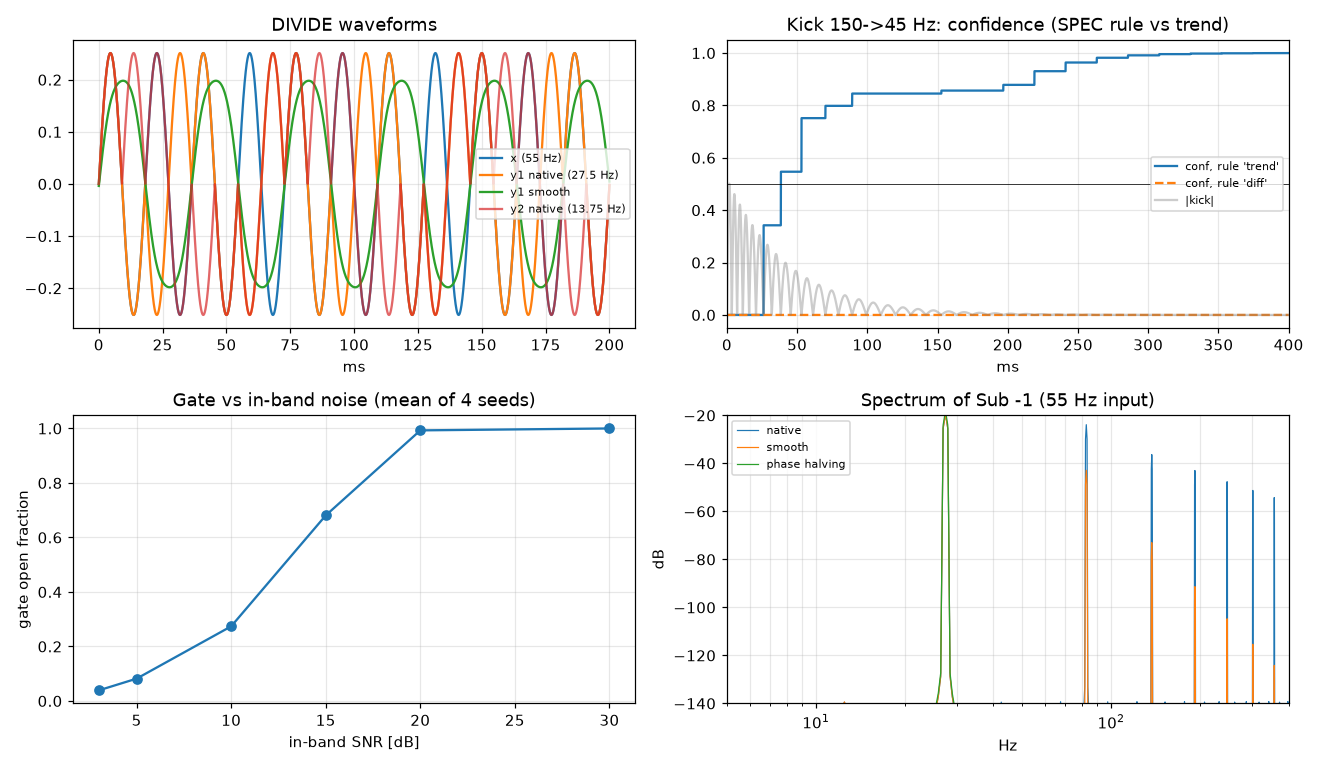
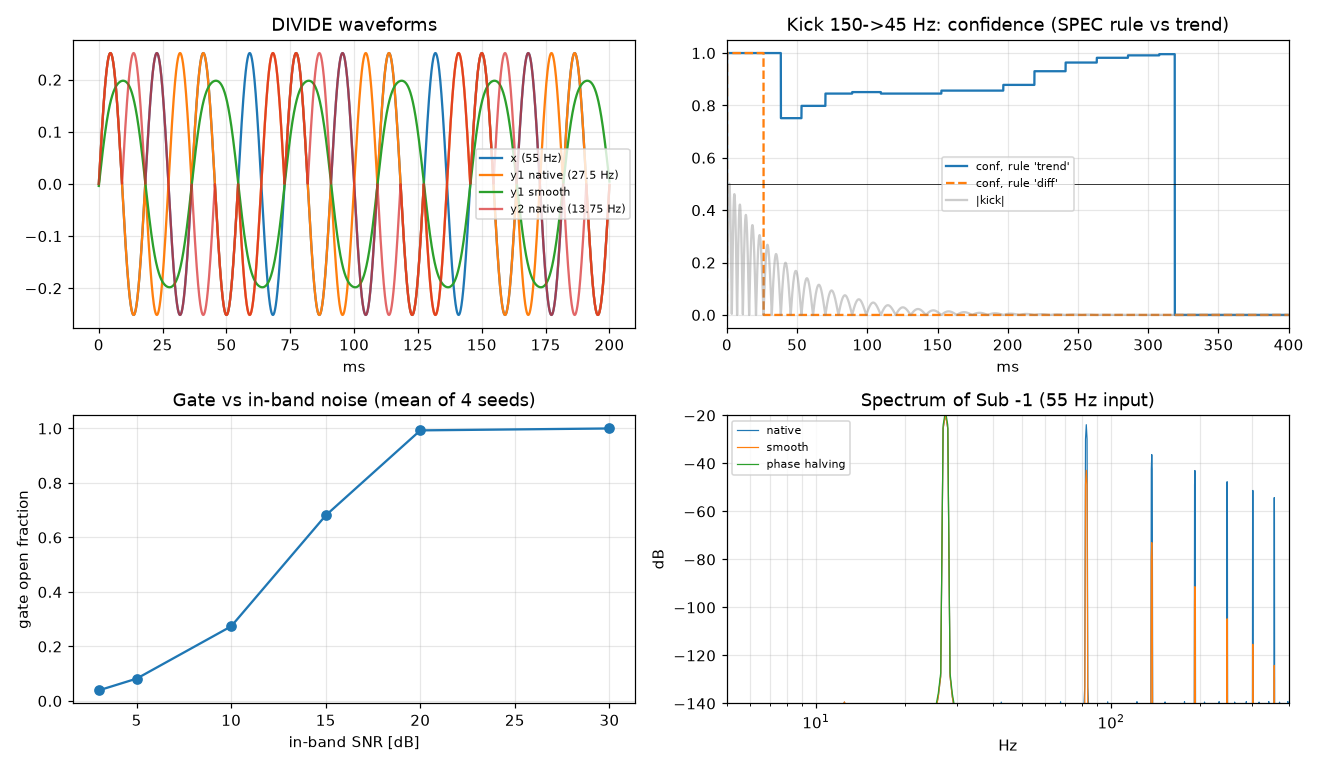
fix(proto): a note's rise begins at its first sound after digital silence; P2-02 measures R1/R2/R5/I1
In digital silence both envelopes are 0 and the strict comparison never counted as quiet, so the Mix/Print start reset and the provisional confidence were placed 45 ms early (no audible effect: the signal was silent). P2-02 now measures the default output: kick onset energy through the gate (Live/Mix/Print 0.94/0.955/0.955 of ungated, was 0.005), polarity of separated hits over noise floors and hum (20/20, correlation 0.9995) and over overlapping tails, the chord level after 100 ms (Live -76 dB), conf_gate edges and shape (f/2 within 0.05 dB).

diff --git a/proto/experiments/p2_02_divide.py b/proto/experiments/p2_02_divide.py
@@ -1,5 +1,8 @@
 # SPDX-License-Identifier: AGPL-3.0-or-later
-"""P2-02: DIVIDE engine - accuracy, purity, continuity, polarity rule, gate behaviour, phase-halving comparison."""
+"""P2-02: DIVIDE engine - accuracy, purity, continuity, polarity rule, gate behaviour, phase-halving comparison.
+
+Re-run after the independent review (D8): note boundaries and polarity resets (R2), provisional confidence and the
+gate lookahead (R1), shape as a cutoff (R5) and conf_gate edges (I1) are measured on the default output."""
 import numpy as np
 import matplotlib
 
@@ -7,7 +10,7 @@ matplotlib.use("Agg")
 import matplotlib.pyplot as plt
 
 from experiments._common import Recorder
-from subgen_proto import divide, signals, svf, util
+from subgen_proto import band, divide, render, signals, svf, util
 
 
 def _inband(f, fs, dur, snr_db, seed):
@@ -18,6 +21,16 @@ def _inband(f, fs, dur, snr_db, seed):
 
 def _db(v):
     return 20.0 * np.log10(max(v, 1e-300))
+
+
+def _first_sign(seg, frac=0.1):
+    j = int(np.argmax(np.abs(seg) > frac * np.max(np.abs(seg))))
+    return np.sign(seg[j])
+
+
+def _floor(fs, n, rms_db, seed=5):
+    nz = signals.pink_noise(fs, n / fs, 30.0, 120.0, level_db=0.0, seed=seed)[:n]
+    return nz * (10.0 ** (rms_db / 20.0) / np.sqrt(np.mean(nz ** 2)))
 
 
 def main():
@@ -80,8 +93,44 @@ def main():
         ok_sign += int(np.sign(ys[j]) == np.sign(xs[j]))
         shapes.append(ys[: int(0.2 * FS)] / pk)
     corr = min(float(np.dot(shapes[0], s) / np.sqrt(np.dot(shapes[0], shapes[0]) * np.dot(s, s))) for s in shapes[1:])
-    rec.check("polarity rule: hits whose first sub lobe matches the source (of 100)", ok_sign, ">=", 100)
-    rec.check("polarity rule: minimum correlation of sub waveform between hits", corr, ">=", 0.99)
+    rec.check("polarity rule: hits whose first sub lobe matches the source (of 100, native y1)", ok_sign, ">=", 100)
+    rec.check("polarity rule: minimum correlation of sub waveform between hits (native y1)", corr, ">=", 0.99)
+
+    # 4b. polarity on the default output (smoothed + gated), separated hits over noise floors and hum, and
+    #     overlapping tails (D8 C2 -> R2). 20 hits each.
+    n20, hum = 20, lambda n: 10.0 ** (-70.0 / 20.0) * np.sin(2.0 * np.pi * 31.0 * np.arange(n) / FS)
+    def hits(spacing=0.5, t60=0.3, extra=None):
+        xx = signals.kick(FS, n_hits=n20, spacing=spacing, level_db=-6.0, t60=t60)
+        return band.range_filter(xx + (extra(len(xx)) if extra else 0.0), FS)
+    variants = {"silence": hits(), "hum 31 Hz -70 dBFS": hits(extra=hum)}
+    variants.update({f"pink {lv:g} dBFS RMS": hits(extra=lambda n, lv=lv: _floor(FS, n, lv)) for lv in (-90, -80, -70, -60)})
+    pol = {}
+    for quality in ("mix", "live"):
+        for label, xb in variants.items():
+            y = render.divide_sub(xb, FS, quality=quality)
+            h = int(0.5 * FS)
+            ok = sum(int(_first_sign(y[i * h:(i + 1) * h]) == _first_sign(xb[i * h:(i + 1) * h])) for i in range(n20))
+            sh = [y[i * h:i * h + int(0.2 * FS)] for i in range(n20)]
+            cmin = min(float(np.dot(sh[0], v) / np.sqrt(np.dot(sh[0], sh[0]) * np.dot(v, v))) for v in sh[1:])
+            pol[f"{quality} | {label}"] = (ok, round(cmin, 4))
+    rec.info("default output, separated hits: (first lobe matches the source, of 20; min correlation)", pol)
+    rec.check("default output, separated hits: worst first-lobe agreement (Mix and Live, 6 variants)",
+              min(v[0] for v in pol.values()), ">=", n20)
+    rec.check("default output, separated hits: worst correlation between hits", min(v[1] for v in pol.values()), ">=", 0.99)
+    tails = {}
+    for spacing in (0.45, 0.5):
+        xb = hits(spacing=spacing, t60=1.0)
+        r = divide.divide(xb, FS)
+        y = render.divide_sub(xb, FS, quality="mix")
+        h = int(spacing * FS)
+        native = sum(int(_first_sign(r.y1[i * h:(i + 1) * h]) == _first_sign(xb[i * h:(i + 1) * h])) for i in range(n20))
+        out_signs = {float(_first_sign(y[i * h:(i + 1) * h])) for i in range(1, n20)}
+        tails[f"T60 1 s every {spacing:g} s"] = {"native y1 matches (of 20)": native, "output signs, hits 1-19": sorted(out_signs)}
+    rec.info("overlapping tails (each hit over the previous one's tail, 13.5 dB down at 0.45 s), Mix", tails)
+    rec.check("overlapping tails: native y1 first lobe matches the source (worst of 2 spacings, of 20)",
+              min(v["native y1 matches (of 20)"] for v in tails.values()), ">=", n20)
+    rec.check("overlapping tails: the output looks alike from hit to hit (distinct first-lobe signs, worst)",
+              max(len(v["output signs, hits 1-19"]) for v in tails.values()), "<=", 1)
 
     # 5. gate behaviour: kick (trend vs SPEC rule), clean-sine opening time
     kick = signals.kick(FS, n_hits=1, spacing=0.5, level_db=-6.0)
@@ -92,14 +141,23 @@ def main():
         first = np.flatnonzero(m)
         gate[mode] = {"open_fraction_50-300ms": round(float(np.mean(m[int(.05 * FS):int(.30 * FS)])), 3),
                       "first_open_ms": round(1000 * first[0] / FS, 1) if first.size else None}
-    rec.info("kick gate (SIG-03)", gate)
+    rec.info("kick gate (SIG-03; conf provisional 1 from the note start)", gate)
     rec.check("kick: gate open fraction 50-300 ms, 'trend' rule", gate["trend"]["open_fraction_50-300ms"], ">=", 0.9)
-    rec.info("kick: SPEC rule ('diff') open fraction 50-300 ms", gate["diff"]["open_fraction_50-300ms"])
+    rec.info("kick: SPEC 0.1 rule ('diff') open fraction 50-300 ms", gate["diff"]["open_fraction_50-300ms"])
+    xb1 = band.range_filter(kick, FS)
+    n40 = int(0.040 * FS)
+    onset = {}
+    for quality, look in (("live", 0.0), ("mix", 0.045), ("print", 0.055)):
+        gated = render.divide_sub(xb1, FS, quality=quality)
+        ungated = divide.smooth_sub(divide.divide(xb1, FS, live=quality == "live", lookahead_s=look), FS, 1)
+        onset[quality] = round(float(np.sum(gated[:n40] ** 2) / np.sum(ungated[:n40] ** 2)), 3)
+    rec.info("kick through the range filter: gated / ungated sub energy in the first 40 ms (D8 C1: was 0.005)", onset)
+    rec.check("kick onset: gated / ungated sub energy in the first 40 ms (worst quality)", min(onset.values()), ">=", 0.5)
     opens = {}
     for f in (30.0, 55.0, 120.0):
-        r = divide.divide(signals.sine(f, FS, 1.0, -12.0), FS)
-        opens[f] = round(1000 * np.flatnonzero(divide.gate_mask(r.conf, 50.0))[0] / FS, 1)
-    rec.info("clean sine: gate opens after (ms) [3 periods = 100.0, 54.5, 25.0]", opens)
+        r = divide.divide(np.concatenate([np.zeros(FS // 5), signals.sine(f, FS, 1.0, -12.0)]), FS)
+        opens[f] = round(1000 * (np.flatnonzero(divide.gate_mask(r.conf, 50.0, r.provisional))[0] - FS // 5) / FS, 1)
+    rec.info("clean sine after silence: gate opens after the note start (ms; provisional, R1)", opens)
 
     # 6. in-band noise sweep, chord and random noise
     sweep = {}
@@ -120,8 +178,28 @@ def main():
     rec.info("random 30-120 Hz noise: open fraction per seed", [round(float(v), 4) for v in fr_pink])
     rec.check("random noise: worst open fraction", max(fr_pink), "<=", 0.03)
     r = divide.divide(signals.chord(FS, (55.0, 69.0, 82.0), 3.0, -12.0), FS)
-    rec.check("chord 55/69/82 Hz: gate open fraction", float(np.mean(divide.gate_mask(r.conf, 50.0)[int(0.1 * FS):])),
+    rec.check("chord 55/69/82 Hz: gate open fraction", float(np.mean(divide.gate_mask(r.conf, 50.0, r.provisional)[int(0.1 * FS):])),
               "<=", 0.0)
+    chord = signals.chord(FS, (55.0, 69.0, 82.0), 3.0, -12.0)
+    lev = {q: round(_db(util.rms(render.divide_sub(chord, FS, quality=q)[int(0.1 * FS):]) / util.rms(chord[int(0.1 * FS):])), 1)
+           for q in ("live", "mix")}
+    rec.info("chord from silence: gated sub level after 100 ms re the source [dB]", lev)
+    rec.check("T-DIV-05 chord: sub level after 100 ms (worst of Live, Mix)", max(lev.values()), "<=", -40.0, "dB")
+
+    # 6b. conf_gate edges (D8 I1): a 55 Hz note (1 s), then random 30-120 Hz noise (2 s): open fraction in the noise
+    x = np.concatenate([signals.sine(55.0, FS, 1.0, -12.0), signals.pink_noise(FS, 2.0, 30.0, 120.0, level_db=-12.0, seed=6)])
+    r = divide.divide(x, FS)
+    edges = {g: round(float(np.mean(divide.gate_mask(r.conf, g, r.provisional)[int(1.1 * FS):])), 3) for g in (0.0, 1.0, 50.0, 100.0)}
+    rec.info("conf_gate -> gate open fraction during the noise after a note (was 1.0 at conf_gate 0)", edges)
+    rec.check("conf_gate 0: the gate closes in noise (open fraction)", edges[0.0], "<=", 0.5)
+
+    # 6c. shape (R5): level of the f/2 component vs shape, re shape 0
+    res55 = divide.divide(signals.sine(55.0, FS, 4.0, -12.0), FS)
+    ref = util.harmonic_amps(divide.smooth_sub(res55, FS, 1)[FS:3 * FS], FS, 27.5, n=1)[0]
+    shape_tab = {sh: round(_db(util.harmonic_amps(divide.smooth_sub(res55, FS, 1, shape_pct=sh)[FS:3 * FS], FS, 27.5, n=1)[0] / ref), 2)
+                 for sh in (25.0, 50.0, 75.0, 100.0)}
+    rec.info("shape -> f/2 level re shape 0 [dB] (mixing the paths gave -2.1 / -3.1 / -2.1 dB at 25 / 50 / 75 %)", shape_tab)
+    rec.check("shape: worst f/2 level change", max(abs(v) for v in shape_tab.values()), "<=", 0.5, "dB")
 
     # 7. phase halving vs divider on noisy sine (frequency error of the sub)
     cmp_ = {}

diff --git a/proto/subgen_proto/activity.py b/proto/subgen_proto/activity.py
@@ -78,7 +78,7 @@ def note_starts(x, fs: float, *, thresh_db: float = -55.0) -> NoteStarts:
     e_s = np.concatenate([np.zeros(k), e_s[:len(x) - k]])  # the slow level as it was before the rise
     d = e_f - 10.0 ** (ONSET_RATIO_DB / 20.0) * e_s
     cond = (d >= 0.0) & (e_f >= np.sqrt(2.0) * 10.0 ** (thresh_db / 20.0))
-    quiet = e_f < 10.0 ** (BEGIN_RATIO_DB / 20.0) * e_s
+    quiet = e_f <= 10.0 ** (BEGIN_RATIO_DB / 20.0) * e_s  # digital silence (0 <= 0) is quiet too
     last_quiet = np.where(quiet, np.arange(len(x)), -1)
     np.maximum.accumulate(last_quiet, out=last_quiet)
     events = []  # (detect, begin)

diff --git a/proto/tests/test_activity.py b/proto/tests/test_activity.py
@@ -77,5 +77,12 @@ class TestNoteBoundaries(unittest.TestCase):
             self.assertLessEqual(len(activity.note_starts(x, FS)), 3, msg=f"seed {seed}")
 
 
+    def test_begin_after_digital_silence_is_the_first_sound(self):
+        # in digital silence both envelopes are 0: that counts as quiet, so the rise begins at the first sample
+        x = np.concatenate([np.zeros(FS // 5), signals.sine(55.0, FS, 0.5, level_db=-12.0)])
+        st = activity.note_starts(x, FS)
+        self.assertEqual(len(st), 1)
+        self.assertLessEqual(abs(st.begin[0] - FS // 5), 1.0)
+
 if __name__ == "__main__":
     unittest.main()
